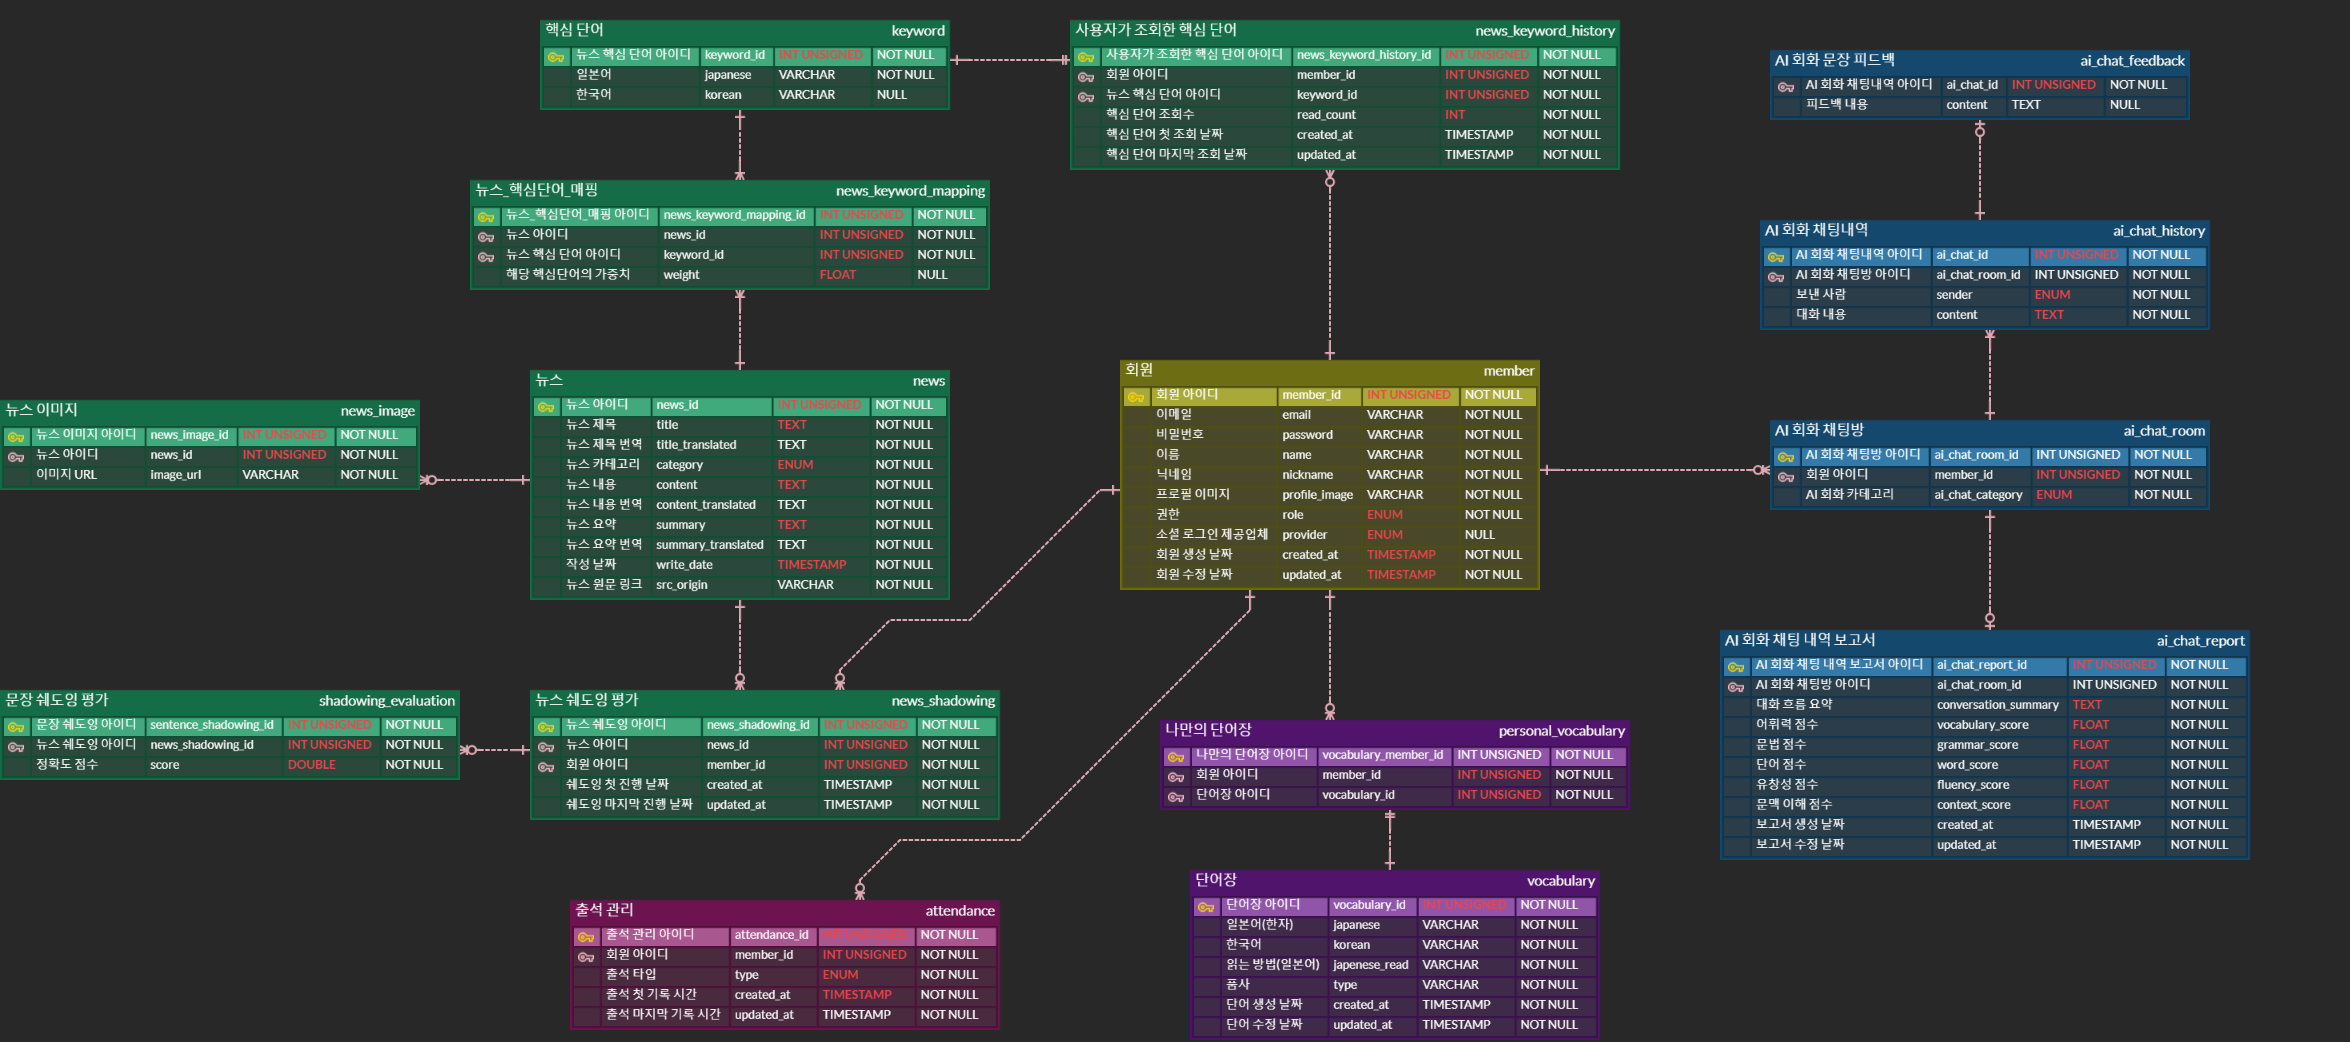
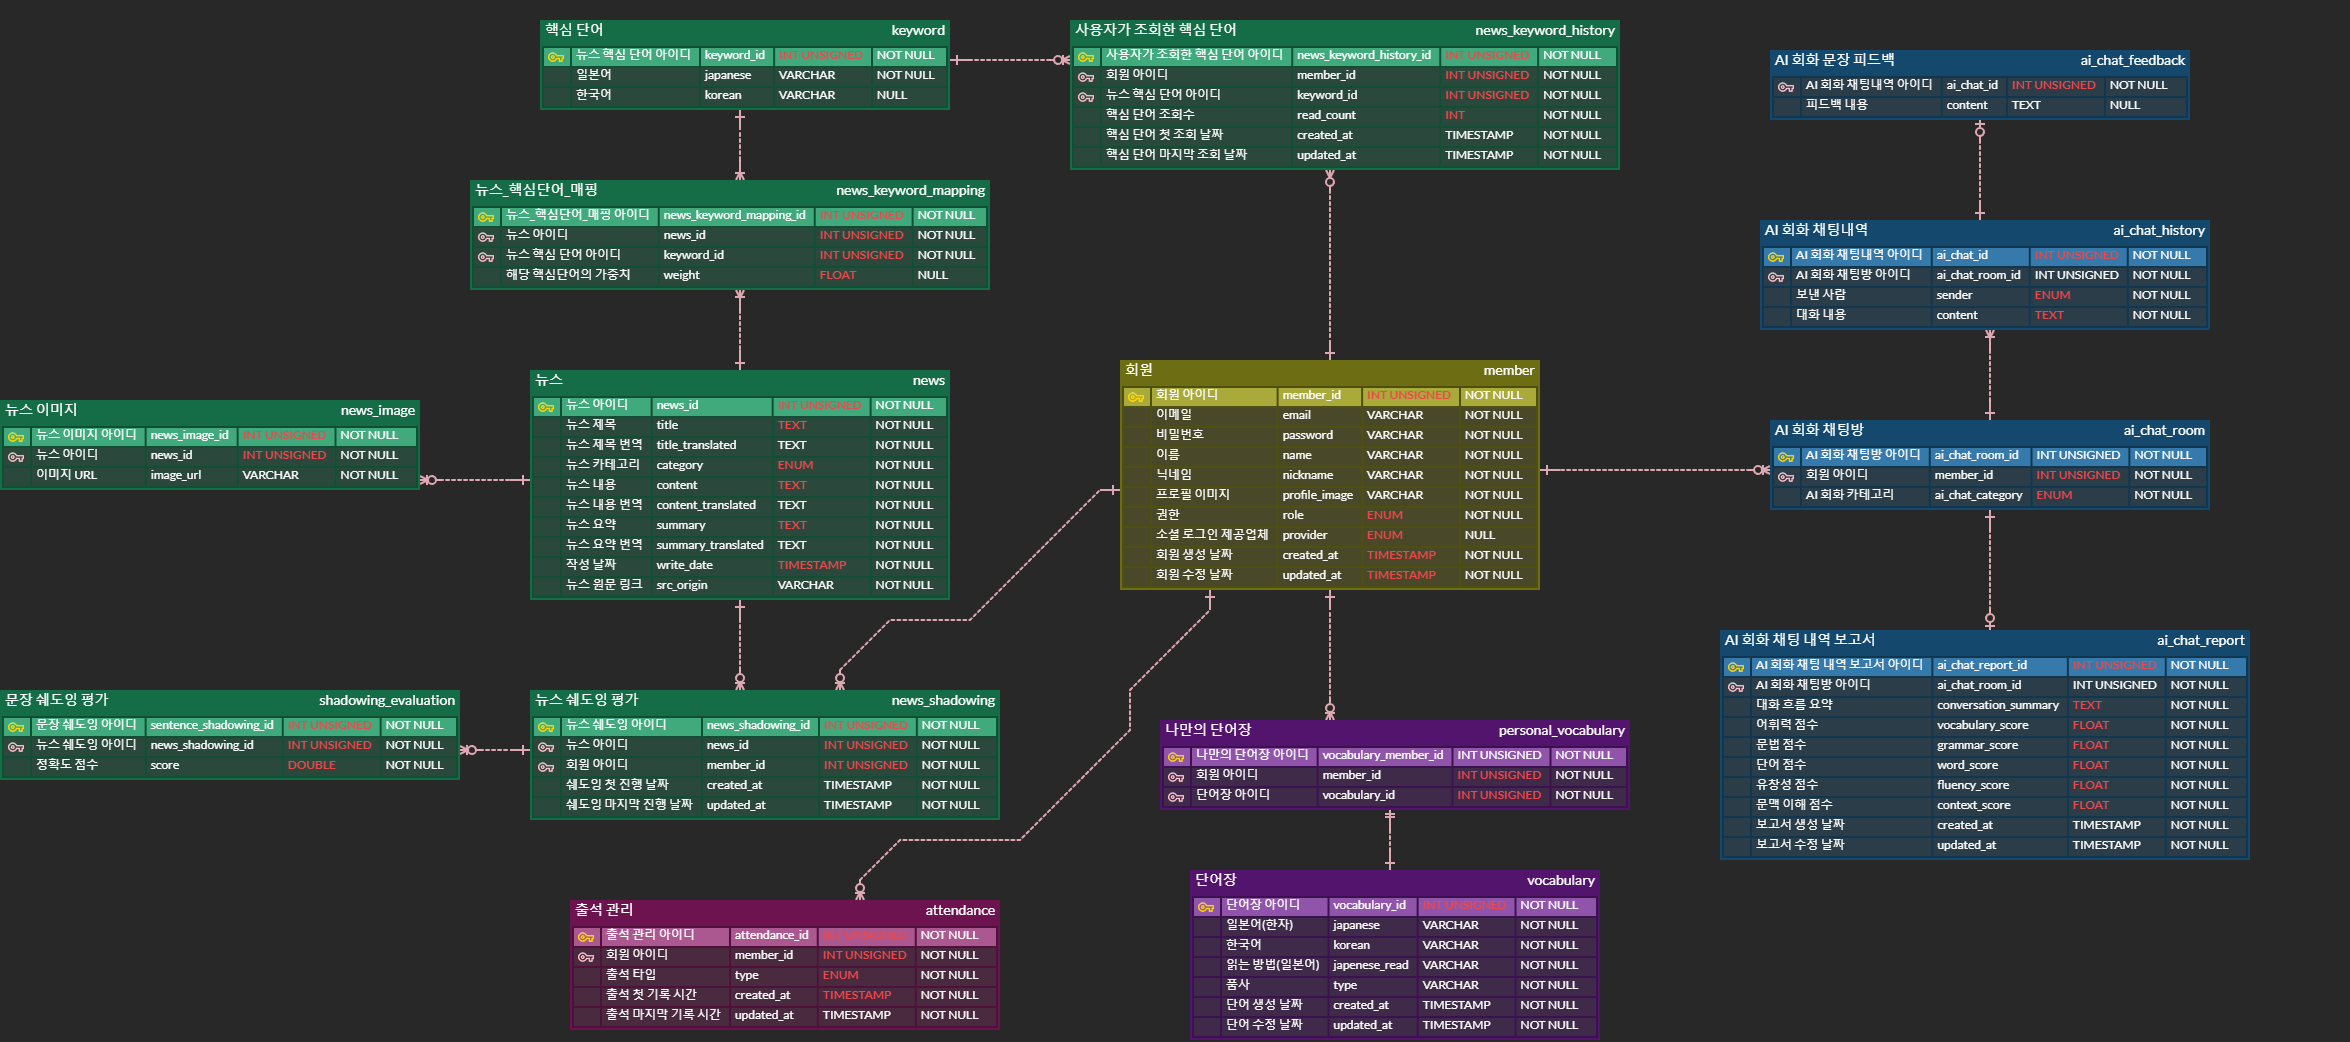
fix: ERD 수정사항 반영본 추가 + Readme 일부 수정

diff --git a/README.md b/README.md
@@ -69,18 +69,18 @@
 
 ### 뉴스 데이터 크롤링
 
-### 자연어 처리(NLP) 기술
+### 자연어 처리(NLP)
 
 - 자연어 처리 기술을 활용하여 일본어 뉴스 데이터 형태소 분석 및 처리 진행
 
-### 빅데이터 분산 기술
+### 빅데이터 분산
 
 - Hadoop을 통한 뉴스 데이터 분산 처리
   - 뉴스 크롤링 후, AWS EC2 서버에서 Hadoop Streaming을 사용하여 뉴스 데이터 내 단어의 TF-IDF 값 계산
   - 기사 내 단어에 대한 WordCount 계산 후 그에 기반하여 TF-IDF 값을 도출하는 MapReduce 과정 수행
   - 각 기사에서 TF-IDF 값이 높은 상위 5개의 단어를 선별하여 뉴스를 조회할 때 중요 단어 표시 기능 제공
 
-### 빅데이터 추천 기술
+### 빅데이터 추천
 
 - Content-Based Filtering Algorithm
   - 사용자의 선호도를 반영하여 선호하는 카테고리의 단어에 대해 더 많은 학습을 진행하는 사용자 더미 데이터 300개 생성
@@ -88,7 +88,7 @@
   - Cosine Similarity를 기준으로, 사용자와 가장 관련성이 높은 상위 3개의 뉴스 추천
   - 신규 사용자나 데이터가 없는 사용자를 위해, 다른 사용자들에게 가장 많이 추천된 상위 3개의 뉴스를 추천하는 대체 알고리즘 구현을 통해 Content-Based Filtering Algorithm의 단점인 Cold-Start 문제 해결
 
-### TTS / STT 기술
+### TTS / STT
 
 - TTS(Text-to-Speech)를 통해 사용자가 뉴스를 들을 수 있는 기능 제공
 - STT(Speech-to-Text)를 통해 사용자의 음성을 텍스트로 변환 후 쉐도잉 평가 기능과 AI와의 회화 기능 제공
@@ -193,22 +193,43 @@
 
 - React
 - Typescript
+- axios
+- zustand
+- React Query
+- MUI
+- Styled Components
+- React-router-dom
+- AWS Polly
+- React-speech-recognition
+- STOMP
+- ApexCharts
 
 ### Back-End
 
 - Java `17.0.10`
 - Spring Boot `3.2.3`
+- Lombok
+- openAPI `(Swagger 3.0)`
+- OAUTH `2.0`
 - Gradle `8.5`
+- JWT
 - Spring Security
+- Spring Data JPA
+- QueryDSL
+- WebFlux
 - WebSocket
-- STOMP
+- Firebase Storage
 - RabbitMQ
+- Jasypt
+- Java Mail Sender
+- Flyway
+- OpenAI API `(GPT)`
 - Python `3.8.10`
 - FastAPI `0.110.0`
 
 ### DB
 
-- MySQL
+- MySQL `8.0.36`
 - Redis
 
 ### Infra
@@ -221,17 +242,25 @@
 
 ### Data
 
-- selenium `4.18.1`
+- selenium `4.19.0`
 - Hadoop `3.3.6`
 - Crontab
 - Mecab
 - scikit-learn `1.4.1`
+- webdriver-manager `4.0.1`
+- googletrans `4.0.0rc1`
+- requests `2.31.0`
+- paramiko `3.4.0`
+- pytz `2024.1`
+- unidic-lite
+- SQLAlchemy `2.0.28`
 
 ## 기능 명세
 
-[기능 명세](https://www.notion.so/3754b9a4e4bf49519f1c5eab99fe4415?pvs=4)
+[기능 명세](https://translucent-polish-c76.notion.site/3754b9a4e4bf49519f1c5eab99fe4415)
 
 ## API 명세
+
 [API 명세](https://translucent-polish-c76.notion.site/API-9e9953ecc90f492f9efed251e04c6f49?pvs=4)
 
 ## ERD
